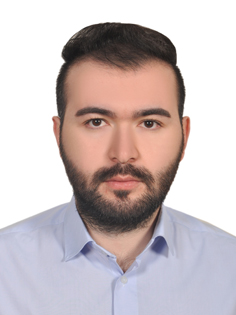
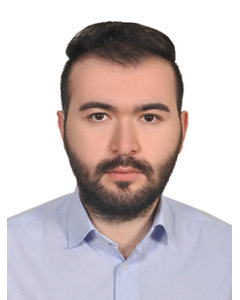
Add files via upload

diff --git a/about.html b/about.html
@@ -1,1 +1,1 @@
-<!doctype html><html lang="fa" dir="rtl"><head><meta charset="utf-8"><meta name="viewport" content="width=device-width,initial-scale=1"><title>درباره انجمن | انجمن صنفی اردبیل</title><link rel="preconnect" href="https://fonts.googleapis.com"><link href="https://fonts.googleapis.com/css2?family=Vazirmatn:wght@300;400;500;600;700;800&display=swap" rel="stylesheet"><link rel="stylesheet" href="style.css"><script src="auth.js"></script></head><body class=""><header class="site-header"><div class="header-top-row"><a href="index.html" class="brand-right"><img src="assets/iphsda_logo.webp" alt="نشان انجمن صنفی کارفرمایی شرکتهای پخش دارو و مکملهای انسانی استان اردبیل"></a><div class="marquee-center"><div class="marquee-text">انجمن صنفی کارفرمایی شرکتهای پخش دارو و مکملهای انسانی استان اردبیل</div></div><div class="head-actions-left"><a class="login-btn-white" href="login.html">ورود کاربران</a></div></div><nav class="header-bottom-nav"><span class="pill-indicator" aria-hidden="true"></span><a href="index.html" class="">صفحه اصلی</a><a href="mission.html" class="">رسالت ما</a><a href="members.html" class="">اعضای انجمن</a><a href="news.html" class="">اخبار و اطلاعیهها</a><a href="services.html" class="">خدمات</a><a href="cartable.html" class="">کارتابل مکاتبات</a><a href="links.html" class="">لینکهای مفید</a><a href="about.html" class="active">درباره ما</a><a href="contact.html" class="">ارتباط با ما</a></nav></header><main class="inner-page"><section class="page-hero"><p class="eyebrow">درباره ما</p><h1>همراه زنجیرهٔ سلامت استان</h1><p>انجمن صنفی کارفرمایی شرکتهای پخش دارو و مکملهای انسانی استان اردبیل</p></section><section class="container content-section"><h2>هیئتمدیره</h2><div class="people-grid board-grid"><article class="person-card"><div class="avatar"><img src="assets/managers/iraj khezri.png" alt="تصویر ایرج خضری" loading="lazy"></div><h3>ایرج خضری</h3><p>رئیس هیئتمدیره</p><small>پخش فردوس</small><span class="vote">19 رأی</span></article><article class="person-card"><div class="avatar"><img src="assets/managers/habib ayani.png" alt="تصویر حبیب اعیانی" loading="lazy"></div><h3>حبیب اعیانی</h3><p>نایب رئیس هیئتمدیره</p><small>امید آریا دارو</small><span class="vote">19 رأی</span></article><article class="person-card"><div class="avatar"><img src="assets/managers/hossein ghadimi.png" alt="تصویر حسین قدیمی" loading="lazy"></div><h3>حسین قدیمی</h3><p>دبیر انجمن</p><small>پخش البرز</small><span class="vote">21 رأی</span></article><article class="person-card"><div class="avatar"><img src="assets/managers/mehdi shahi.png" alt="تصویر مهدی شاهی" loading="lazy"></div><h3>مهدی شاهی</h3><p>عضو اصلی و خزانهدار</p><small>توزیع داروپخش</small><span class="vote">11 رأی</span></article><article class="person-card"><div class="avatar"><img src="assets/managers/essa fathi.png" alt="تصویر عیسی فتحی" loading="lazy"></div><h3>عیسی فتحی</h3><p>عضو اصلی هیئتمدیره</p><small>سها هلال</small><span class="vote">11 رأی</span></article></div><h2 class="space-top">اعضای علیالبدل</h2><div class="people-grid secondary-grid"><article class="person-card"><div class="avatar"><img src="assets/managers/habib esfandiari.png" alt="تصویر حبیب اسفندیاری" loading="lazy"></div><h3>حبیب اسفندیاری</h3><p>عضو علیالبدل</p><span class="vote">10 رأی</span></article><article class="person-card"><div class="avatar"><img src="assets/managers/ghasem litfi.png" alt="تصویر قاسم لطفی" loading="lazy"></div><h3>قاسم لطفی</h3><p>عضو علیالبدل</p><span class="vote">7 رأی</span></article></div><h2 class="space-top">بازرسان</h2><div class="people-grid inspector-grid"><article class="person-card"><div class="avatar"><img src="assets/managers/tohid nemati.jpg" alt="تصویر توحید نعمتی" loading="lazy"></div><h3>توحید نعمتی</h3><p>بازرس</p><span class="vote">17 رأی</span></article><article class="person-card"><div class="avatar avatar-fallback" aria-label="تصویر موجود نیست">م</div><h3>مهدی زمانی</h3><p>بازرس</p><span class="vote">9 رأی</span></article></div><div class="glass-card"><h2>ارتباط با انجمن</h2><p>نشانی: اردبیل، خیابان امام، ساختمان انجمن صنفی - دفتر مرکزی پخش البرز</p><p>phasda.ardabil@gmail.com　 |　 09332169990</p></div></section></main><footer class="site-footer"><div><b>با هم برای سلامت جامعه</b><p>انجمن صنفی کارفرمایی شرکتهای پخش دارو و مکملهای انسانی استان اردبیل</p><p>اردبیل، مبارزان، خیابان داروپخش، روبروی درمانگاه شهید بهشتی، شرکت پخش البرز</p></div><div class="socials"><a href="#"><svg viewBox="0 0 24 24"><path d="M21 4 18 20l-7-4-3 3 .5-5L18 7 6 14 1 12 21 4Z"/></svg></a><a href="#"><svg viewBox="0 0 24 24"><path d="M5 3a2 2 0 1 1 0 4 2 2 0 0 1 0-4ZM3.5 9h3v12h-3zM9 9h3v2h.1A3 3 0 0 1 15 9c3 0 4 2 4 5v7h-3v-6c0-2 0-3-2-3s-2 2-2 3v6H9z"/></svg></a><a href="#"><svg viewBox="0 0 24 24"><rect x="3" y="3" width="18" height="18" rx="5"/><circle cx="12" cy="12" r="4"/></svg></a><a href="#"><svg viewBox="0 0 24 24"><circle cx="12" cy="12" r="9"/><path d="M8 8c1-1 2 1 2 2l-1 1c1 2 2 3 4 4l1-1c1 0 3 1 2 2-1 2-3 2-6 0-3-2-5-6-2-8Z"/></svg></a></div></footer><script src="app.js" defer></script></body></html>
+<!doctype html><html lang="fa" dir="rtl"><head><meta charset="utf-8"><meta name="viewport" content="width=device-width,initial-scale=1"><title>درباره انجمن | انجمن صنفی اردبیل</title><link rel="preconnect" href="https://fonts.googleapis.com"><link href="https://fonts.googleapis.com/css2?family=Vazirmatn:wght@300;400;500;600;700;800&display=swap" rel="stylesheet"><link rel="stylesheet" href="style.css"><script src="auth.js"></script></head><body class=""><header class="site-header"><div class="header-top-row"><a href="index.html" class="brand-right"><img src="assets/iphsda_logo.webp" alt="نشان انجمن صنفی کارفرمایی شرکتهای پخش دارو و مکملهای انسانی استان اردبیل"></a><div class="marquee-center"><div class="marquee-text">انجمن صنفی کارفرمایی شرکتهای پخش دارو و مکملهای انسانی استان اردبیل</div></div><div class="head-actions-left"><a class="login-btn-white" href="login.html">ورود کاربران</a></div></div><nav class="header-bottom-nav"><span class="pill-indicator" aria-hidden="true"></span><a href="index.html" class="">صفحه اصلی</a><a href="mission.html" class="">رسالت ما</a><a href="members.html" class="">اعضای انجمن</a><a href="news.html" class="">اخبار و اطلاعیهها</a><a href="services.html" class="">خدمات</a><a href="cartable.html" class="">کارتابل مکاتبات</a><a href="links.html" class="">لینکهای مفید</a><a href="about.html" class="active">درباره ما</a><a href="contact.html" class="">ارتباط با ما</a></nav></header><main class="inner-page"><section class="page-hero"><p class="eyebrow">درباره ما</p><h1>همراه زنجیرهٔ سلامت استان</h1><p>انجمن صنفی کارفرمایی شرکتهای پخش دارو و مکملهای انسانی استان اردبیل</p></section><section class="container content-section"><h2>هیئتمدیره</h2><div class="people-grid"><article class="person-card"><div class="avatar"><img src="assets/managers/iraj-khezri.jpg" alt="تصویر مدیر" loading="lazy" decoding="async"></div><img src="assets/managers/habib-esfandiari.jpg" alt="تصویر مدیر" loading="lazy" decoding="async"></div><img src="assets/managers/essa-fathi.jpg" alt="تصویر مدیر" loading="lazy" decoding="async"></div><img src="assets/managers/mehdi-shahi.jpg" alt="تصویر مدیر" loading="lazy" decoding="async"></div><img src="assets/managers/hossein-ghadimi.jpg" alt="تصویر مدیر" loading="lazy" decoding="async"></div><img src="assets/managers/habib-ayani.jpg" alt="تصویر مدیر" loading="lazy" decoding="async"></div><img src="assets/managers/iraj-khezri.jpg" alt="تصویر مدیر" loading="lazy" decoding="async"></div>ا</div><h3>ایرج خضری</h3><p>رئیس هیئتمدیره</p><small>پخش فردوس</small><span class="vote">19 رأی</span></article><article class="person-card"><div class="avatar"><img src="assets/managers/habib-ayani.jpg" alt="تصویر مدیر" loading="lazy" decoding="async"></div><h3>حبیب اعیانی</h3><p>نایب رئیس هیئتمدیره</p><small>امید آریا دارو</small><span class="vote">19 رأی</span></article><article class="person-card"><div class="avatar"><img src="assets/managers/hossein-ghadimi.jpg" alt="تصویر مدیر" loading="lazy" decoding="async"></div><h3>حسین قدیمی</h3><p>دبیر انجمن</p><small>پخش البرز</small><span class="vote">21 رأی</span></article><article class="person-card"><div class="avatar"><img src="assets/managers/mehdi-shahi.jpg" alt="تصویر مدیر" loading="lazy" decoding="async"></div><h3>مهدی شاهی</h3><p>عضو اصلی و خزانهدار</p><small>توزیع داروپخش</small><span class="vote">11 رأی</span></article><article class="person-card"><div class="avatar"><img src="assets/managers/essa-fathi.jpg" alt="تصویر مدیر" loading="lazy" decoding="async"></div><h3>عیسی فتحی</h3><p>عضو اصلی هیئتمدیره</p><small>سها هلال</small><span class="vote">11 رأی</span></article></div><h2 class="space-top">اعضای علیالبدل و بازرسان</h2><div class="people-grid"><article class="person-card"><div class="avatar"><img src="assets/managers/habib-esfandiari.jpg" alt="تصویر مدیر" loading="lazy" decoding="async"></div><h3>حبیب اسفندیاری</h3><p>عضو علیالبدل</p><span class="vote">10 رأی</span></article><article class="person-card"><div class="avatar"><img src="assets/managers/ghasem-litfi.jpg" alt="تصویر مدیر" loading="lazy" decoding="async"></div><h3>قاسم لطفی</h3><p>عضو علیالبدل</p><span class="vote">7 رأی</span></article><article class="person-card"><div class="avatar"><img src="assets/managers/tohid-nemati.jpg" alt="تصویر مدیر" loading="lazy" decoding="async"></div><h3>توحید نعمتی</h3><p>بازرس</p><span class="vote">17 رأی</span></article><article class="person-card"><div class="avatar">م</div><h3>مهدی زمانی</h3><p>بازرس</p><span class="vote">9 رأی</span></article></div><div class="glass-card"><h2>ارتباط با انجمن</h2><p>نشانی: اردبیل، خیابان امام، ساختمان انجمن صنفی - دفتر مرکزی پخش البرز</p><p>phasda.ardabil@gmail.com　 |　 09332169990</p></div></section></main><footer class="site-footer"><div><b>با هم برای سلامت جامعه</b><p>انجمن صنفی کارفرمایی شرکتهای پخش دارو و مکملهای انسانی استان اردبیل</p><p>اردبیل، مبارزان، خیابان داروپخش، روبروی درمانگاه شهید بهشتی، شرکت پخش البرز</p></div><div class="socials"><a href="#"><svg viewBox="0 0 24 24"><path d="M21 4 18 20l-7-4-3 3 .5-5L18 7 6 14 1 12 21 4Z"/></svg></a><a href="#"><svg viewBox="0 0 24 24"><path d="M5 3a2 2 0 1 1 0 4 2 2 0 0 1 0-4ZM3.5 9h3v12h-3zM9 9h3v2h.1A3 3 0 0 1 15 9c3 0 4 2 4 5v7h-3v-6c0-2 0-3-2-3s-2 2-2 3v6H9z"/></svg></a><a href="#"><svg viewBox="0 0 24 24"><rect x="3" y="3" width="18" height="18" rx="5"/><circle cx="12" cy="12" r="4"/></svg></a><a href="#"><svg viewBox="0 0 24 24"><circle cx="12" cy="12" r="9"/><path d="M8 8c1-1 2 1 2 2l-1 1c1 2 2 3 4 4l1-1c1 0 3 1 2 2-1 2-3 2-6 0-3-2-5-6-2-8Z"/></svg></a></div></footer><script src="app.js" defer></script></body></html>

diff --git a/style.css b/style.css
@@ -50,7 +50,7 @@ a{color:inherit;text-decoration:none}img{max-width:100%}
 .people-grid,.company-grid,.contact-grid,.service-grid{display:grid;gap:18px}
 .people-grid{grid-template-columns:repeat(auto-fill,minmax(190px,1fr))}
 .person-card{background:rgba(18,24,36,.7);border:1px solid var(--line);border-radius:16px;padding:18px;text-align:center}
-.avatar{width:54px;height:54px;margin:0 auto 10px;border-radius:50%;display:grid;place-items:center;font-weight:800;font-size:20px;background:radial-gradient(circle,#00b4d8,#085f76);box-shadow:0 0 18px rgba(0,180,216,.4)}
+.avatar{width:110px;height:140px;margin:0 auto 14px;border-radius:50% / 50%;overflow:hidden;display:grid;place-items:center;font-weight:800;font-size:20px;color:#085f76;background:#fff;border:2px solid #08b8ef;box-shadow:0 0 18px rgba(0,180,216,.45);flex:none}.avatar img{display:block;width:100%;height:100%;object-fit:contain;object-position:center center;background:#fff;border-radius:inherit}
 .person-card h3{margin:0;font-size:15px}.person-card p,.person-card small{color:var(--muted);font-size:12px;margin:2px 0;display:block}
 .vote{display:inline-block;margin-top:8px;font-size:11px;color:var(--cyan);border:1px solid rgba(0,180,216,.35);border-radius:20px;padding:2px 12px}
 .member-summary{display:flex;gap:20px;margin-bottom:20px}.member-summary strong{font-size:30px;color:var(--cyan);display:block}.member-summary span{color:var(--muted);font-size:12px}
@@ -415,14 +415,3 @@ main.login-container{min-height:calc(80vh - 190px)}
 @media(max-width:768px){.site-header{top:8px!important;gap:7px!important}.header-top-row{width:calc(100vw - 18px)!important;height:62px!important;min-height:62px;flex-basis:62px;padding:0 10px!important;border-radius:19px}.brand-right img{width:48px!important;height:48px!important}.marquee-center{margin:0 8px!important}.marquee-text{font-size:clamp(10px,2.7vw,13px)!important}.login-btn-white{padding:6px 10px!important;font-size:10px!important}.header-bottom-nav{height:50px!important;min-height:50px;flex-basis:50px;max-width:calc(100vw - 14px);gap:1px!important;padding:5px!important}.header-bottom-nav .pill-indicator{top:5px;height:calc(100% - 10px)}.header-bottom-nav a{font-size:11px!important;padding:8px 11px!important}body{padding-top:158px!important}.login-container{padding-top:24px!important}}
 @media(max-width:430px){.header-top-row{height:56px!important;min-height:56px;flex-basis:56px}.brand-right img{width:42px!important;height:42px!important}.login-btn-white{padding:5px 7px!important;font-size:9px!important}.header-bottom-nav{height:46px!important;min-height:46px;flex-basis:46px}.header-bottom-nav a{padding:7px 9px!important;font-size:10px!important}body{padding-top:146px!important}}
 @media(prefers-reduced-motion:reduce){.header-bottom-nav .pill-indicator,.header-bottom-nav a{transition-duration:.01ms!important}}
-
-/* Uniform manager portrait frames on the about page */
-.content-section .people-grid{gap:16px;justify-content:center;align-items:stretch}
-.content-section .people-grid.board-grid{grid-template-columns:repeat(5,minmax(0,1fr))}
-.content-section .people-grid.secondary-grid,.content-section .people-grid.inspector-grid{grid-template-columns:repeat(2,minmax(0,190px));}
-.content-section .person-card{padding:14px 12px}
-.content-section .avatar{width:110px;height:110px;min-width:110px;min-height:110px;box-sizing:border-box;margin:0 auto 12px;border-radius:50%;overflow:hidden;display:grid;place-items:center;padding:0;flex:none}
-.content-section .avatar img{display:block;width:100%;height:100%;max-width:none;object-fit:cover;object-position:center;border-radius:50%}
-.content-section .avatar-fallback{font-size:24px}
-@media(max-width:760px){.content-section .people-grid.board-grid{grid-template-columns:repeat(2,minmax(0,1fr))}}
-@media(max-width:420px){.content-section .people-grid.board-grid,.content-section .people-grid.secondary-grid,.content-section .people-grid.inspector-grid{grid-template-columns:1fr 1fr;gap:10px}.content-section .person-card{padding:12px 8px}.content-section .avatar{width:96px;height:96px;min-width:96px;min-height:96px}}
